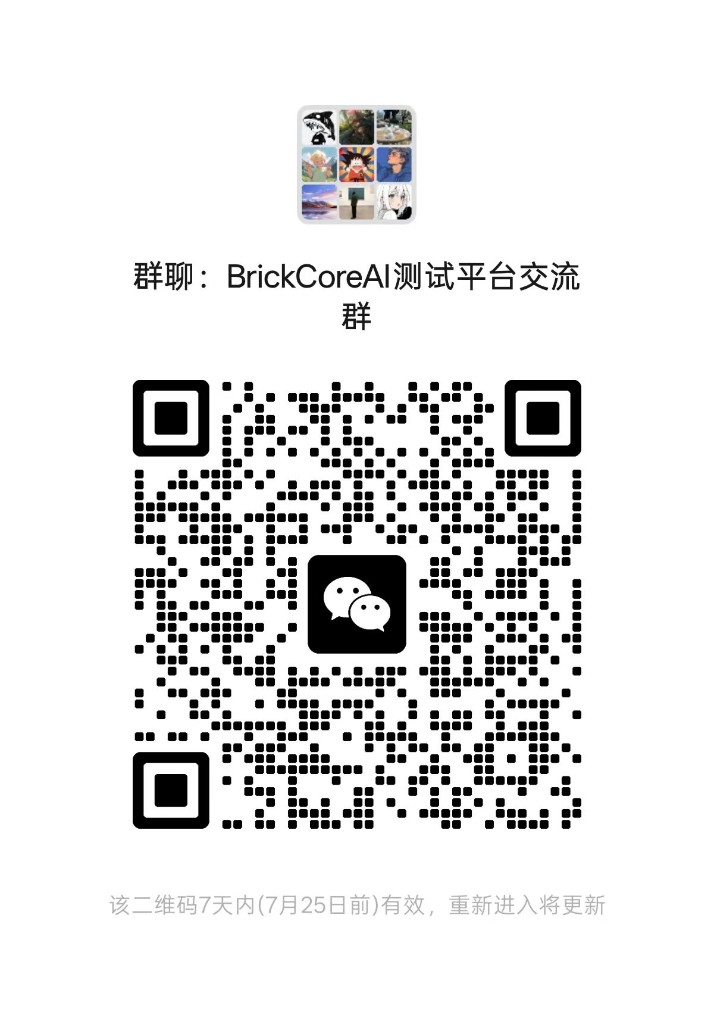
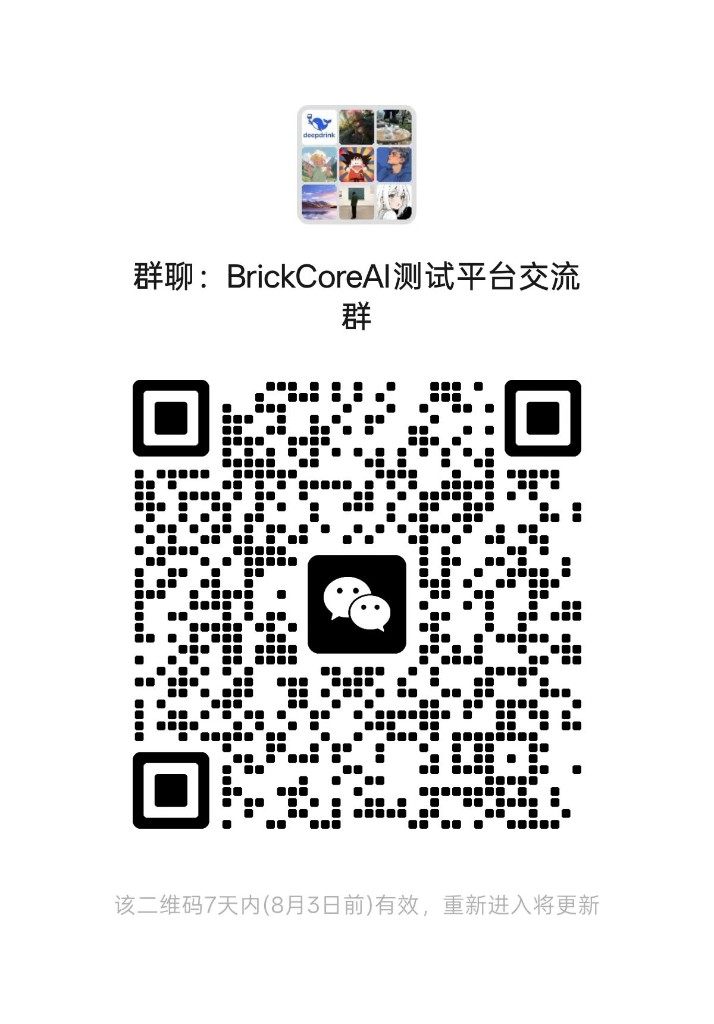
因演示服务器到期，地址更换为 http://180.76.142.97
请到最新地址打开使用，老数据已保留。同步更新交流群二维码。

diff --git a/README.md b/README.md
@@ -18,9 +18,9 @@
 
 | 项 | 内容 |
 |----|------|
-| **演示地址** | **http://43.142.83.156/** |
-| **文档（免登录）** | [http://43.142.83.156/showcase/docs/](http://43.142.83.156/showcase/docs/) |
-| **产品演示页** | [http://43.142.83.156/showcase/](http://43.142.83.156/showcase/) |
+| **演示地址** | **http://180.76.142.97/** |
+| **文档（免登录）** | [http://180.76.142.97/showcase/docs/](http://180.76.142.97/showcase/docs/) |
+| **产品演示页** | [http://180.76.142.97/showcase/](http://180.76.142.97/showcase/) |
 | 登录账号 | `admin` |
 | 登录密码 | `BrickCore123456` |
 
@@ -40,7 +40,7 @@
 | **AI 测试** | 需求→功能用例、智能浏览器、失败分析、平台助手「小测」、MCP 外部接入（迭代资料库开发测试中，后续放出） |
 | **平台能力** | 统一测试目录、数据看板、RBAC、文档中心、邮件/钉钉/企微通知 |
 
-详细说明见 [docs-site/](docs-site/) 或演示站 [文档中心](http://43.142.83.156/showcase/docs/)。
+详细说明见 [docs-site/](docs-site/) 或演示站 [文档中心](http://180.76.142.97/showcase/docs/)。
 
 ---
 
@@ -58,8 +58,8 @@
 
 | 入口 | 链接 |
 |------|------|
-| **产品功能演示** | [http://43.142.83.156/showcase/](http://43.142.83.156/showcase/) |
-| **使用说明（文档）** | [http://43.142.83.156/showcase/docs/](http://43.142.83.156/showcase/docs/) |
+| **产品功能演示** | [http://180.76.142.97/showcase/](http://180.76.142.97/showcase/) |
+| **使用说明（文档）** | [http://180.76.142.97/showcase/docs/](http://180.76.142.97/showcase/docs/) |
 
 | 亮点 | 说明 |
 |------|------|
@@ -92,7 +92,7 @@
 **Windows 简要步骤：**
 
 1. 下载解压 `BrickCoreRunner.zip`（路径勿含中文/空格）
-2. 运行 `BrickCoreRunner.exe`，服务器填 **`http://43.142.83.156`**（自建则填你的平台地址）
+2. 运行 `BrickCoreRunner.exe`，服务器填 **`http://180.76.142.97`**（自建则填你的平台地址）
 3. 登录后点击 **上线**；**设备管理** 确认在线
 
 **macOS：** 在 Mac 本机解压对应芯片包 → `chmod +x connect-mac.sh start-mac.sh` → `./connect-mac.sh` → `./start-mac.sh`

diff --git a/runner/README.md b/runner/README.md
@@ -4,8 +4,8 @@
 
 ## 获取与使用
 
-1. **网盘下载（推荐）**：见根目录 [README.md](../README.md#执行器下载windows--约-800mb) 中的百度网盘链接；或登录 [在线演示](http://43.142.83.156/) → **UI 自动化 → 设备管理 → 网盘下载**
-2. 解压后运行 `BrickCoreRunner.exe`，**管理服务器环境** 填 **`http://43.142.83.156`** 或自建平台 `http://<公网IP>`（**不要** `:8000`），登录并 **上线** 设备；自建机还需对测试机 IP 放行 **80、25672、26379、9200**
+1. **网盘下载（推荐）**：见根目录 [README.md](../README.md#执行器下载windows--约-800mb) 中的百度网盘链接；或登录 [在线演示](http://180.76.142.97/) → **UI 自动化 → 设备管理 → 网盘下载**
+2. 解压后运行 `BrickCoreRunner.exe`，**管理服务器环境** 填 **`http://180.76.142.97`** 或自建平台 `http://<公网IP>`（**不要** `:8000`），登录并 **上线** 设备；自建机还需对测试机 IP 放行 **80、25672、26379、9200**
 3. 详见 [docs-site 执行器说明](../docs-site/guide/runner-client.md)
 
 ## 说明

diff --git a/runner_client/README.md b/runner_client/README.md
@@ -8,7 +8,7 @@ Windows 桌面程序：登录 BrickCore 平台、选择环境、**上线**执行
 | 方式 | 说明 |
 |------|------|
 | **百度网盘（推荐）** | [BrickCoreRunner.zip](https://pan.baidu.com/s/1pObFpG-Mt7-Pxo58hklOlg?pwd=9gbi) · 提取码 `9gbi` |
-| **演示平台** | http://43.142.83.156/ → **UI 自动化 → 设备管理** → **网盘下载** |
+| **演示平台** | http://180.76.142.97/ → **UI 自动化 → 设备管理** → **网盘下载** |
 | **自建平台** | **系统管理 → 执行器发布** 配置网盘/OSS 链接 → 设备管理页下载 |
 
 详细步骤见 [docs-site/guide/runner-client.md](../docs-site/guide/runner-client.md)、[执行器获取与发布](../docs-site/guide/runner-packaging.md)。

diff --git a/docs-site/guide/docker-deploy.md b/docs-site/guide/docker-deploy.md
@@ -283,7 +283,7 @@ docker compose up -d --build
 Docker 只部署**平台**。Web 自动化、分布式 Worker 需在 **Windows** 安装 **BrickCoreRunner.zip**（约 800MB）：
 
 1. **网盘下载**：登录平台 **Web 自动化 → 设备管理 → 网盘下载**（或 **平台下载**）
-2. 解压运行 `BrickCoreRunner.exe`，服务器填 **`http://43.142.83.156`**（自建填你的地址），演示账号 `admin` 登录并 **上线**
+2. 解压运行 `BrickCoreRunner.exe`，服务器填 **`http://180.76.142.97`**（自建填你的地址），演示账号 `admin` 登录并 **上线**
 3. **设备管理** 中确认在线  
 
 详见 [执行器说明](runner-client.md)。

diff --git a/docs-site/guide/product-demo.md b/docs-site/guide/product-demo.md
@@ -16,8 +16,8 @@
 
 | 项 | 内容 |
 |----|------|
-| **产品演示页** | http://43.142.83.156/showcase/ |
-| **演示环境** | http://43.142.83.156/ |
+| **产品演示页** | http://180.76.142.97/showcase/ |
+| **演示环境** | http://180.76.142.97/ |
 | **账号** | admin / BrickCore123456 |
 
 > 演示环境密码公开，仅供体验，请勿存放真实业务数据。完整录屏见演示页各模块视频。
